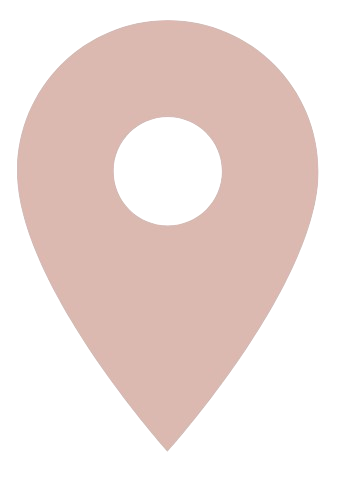
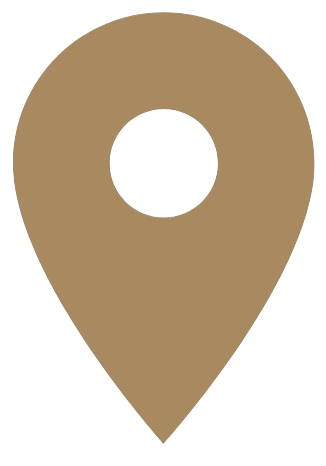
novas imagens e css ajustado

diff --git a/app/assets/stylesheets/pages/_home.scss b/app/assets/stylesheets/pages/_home.scss
@@ -3,8 +3,7 @@ html, body {
   padding: 0;
   height: 100%;
   width: 100%;
-  background-color: #dbb9b0;
-  /*overflow: hidden;*/
+  background-color: #c7a298;
 }
 
 .centered-container {
@@ -13,7 +12,7 @@ html, body {
   align-items: center;
   height: 100vh;
   position: relative;
-  background-color: #dbb9b0;
+  background-color: #c7a298;
 }
 
 .centered-image {
@@ -50,5 +49,101 @@ iframe {
     width: 70%;
     max-width: 250px;
     max-height: 100px;
+  }
+}
+
+.pin, .carta {
+  width: 3vw;
+  object-fit: cover;
+  position: absolute;
+  z-index: 3;
+  transition: all 0.3s ease;
+}
+
+/* Posicionamento específico para o Pin */
+.pin {
+  top: 75%; /* Ajustado para dar espaço ao texto */
+  left: 45%;
+}
+
+/* Posicionamento específico para a Carta */
+.carta {
+  top: 75%; /* Ajustado para dar espaço ao texto */
+  left: 52%;
+}
+
+/* Media Queries para responsividade */
+@media (max-width: 768px) {
+  .pin, .carta {
+    width: 5vw;
+  }
+  .pin {
+    left: 42%;
+  }
+  .carta {
+    left: 50%;
+  }
+}
+
+@media (max-width: 480px) {
+  .pin, .carta {
+    width: 8vw;
+  }
+  .pin {
+    left: 40%;
+  }
+  .carta {
+    left: 48%;
+  }
+}
+
+/* Estilos para as caixas de texto */
+.pin-text, .carta-text {
+  position: absolute;
+  padding: 5px 10px;
+  border-radius: 8px;
+  color: #A9895F; /* Cor do texto */
+  font-size: 20px;
+  font-family: Arial, Helvetica, sans-serif;
+  text-align: center;
+  z-index: 4; /* Sobrepõe a imagem */
+  width: auto;
+  white-space: nowrap; /* Impede que o texto quebre */
+}
+
+/* Posicionamento específico para o texto do Pin */
+.pin-text {
+  top: 85%; /* Posicionado logo abaixo do ícone */
+  left: 43.5%; /* Ajustado para centralização */
+}
+
+/* Posicionamento específico para o texto da Carta */
+.carta-text {
+  top: 85%; /* Posicionado logo abaixo do ícone */
+  left: 50%; /* Ajustado para centralização */
+}
+
+/* Media Queries para ajustar o texto */
+@media (max-width: 768px) {
+  .pin-text, .carta-text {
+    font-size: 12px; /* Ajusta o tamanho da fonte para telas menores */
+  }
+  .pin-text {
+    left: 40%;
+  }
+  .carta-text {
+    left: 50%;
+  }
+}
+
+@media (max-width: 480px) {
+  .pin-text, .carta-text {
+    font-size: 10px; /* Ajusta o tamanho da fonte para telas ainda menores */
+  }
+  .pin-text {
+    left: 38%;
+  }
+  .carta-text {
+    left: 48%;
   }
 }
